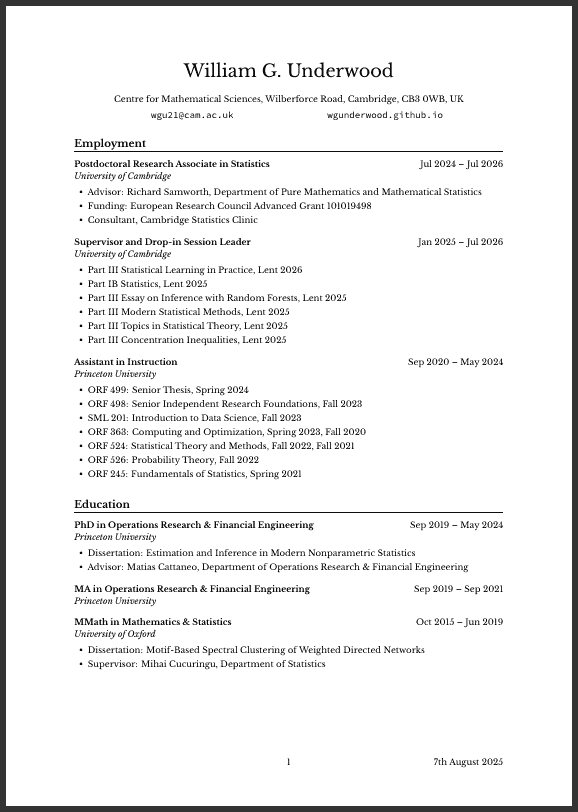
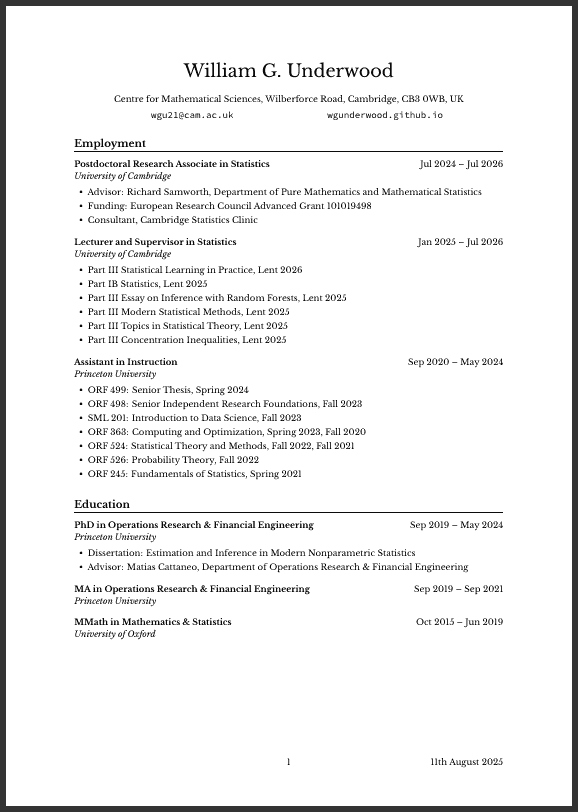
Add working paper

Changed region(s): [[0.1557, 0.8005, 0.5606, 0.8313], [0.1246, 0.2771, 0.436, 0.3079]]

diff --git a/WGUnderwood.tex b/WGUnderwood.tex
@@ -30,7 +30,7 @@
   \item Consultant, Cambridge Statistics Clinic
 \end{itemize}
 
-\subsection{Supervisor and Drop-in Session Leader}
+\subsection{Lecturer and Supervisor in Statistics}
 {Jan 2025 -- Jul 2026}
 \subsubsection{University of Cambridge}
 
@@ -100,7 +100,6 @@
 \end{itemize}
 
 \vspace*{3mm}
-
 \section{Education}
 
 \subsection{PhD in Operations Research \& Financial Engineering}
@@ -121,14 +120,6 @@
 \subsection{MMath in Mathematics \& Statistics}
 {Oct 2015 -- Jun 2019}
 \subsubsection{University of Oxford}
-
-\begin{itemize}
-  \item Dissertation:
-    Motif-Based Spectral Clustering of Weighted Directed Networks
-  \item Supervisor:
-    Mihai Cucuringu,
-    Department of Statistics
-\end{itemize}
 
 \pagebreak
 
@@ -182,13 +173,13 @@
 
 \end{itemize}
 
-%\subsection{Works in progress}{}
-%\begin{itemize}
+\subsection{Working papers}{}
+\begin{itemize}
 
-%\item Higher-order extensions to the Lindeberg method,
-%with M.\ D.\ Cattaneo and R.\ P.\ Masini.
+  \item Higher-order Lindeberg approximation,
+    with M.\ D.\ Cattaneo and R.\ P.\ Masini.
 
-%\end{itemize}
+\end{itemize}
 
 \subsection{Presentations \& conferences}{}
 \begin{itemize}
@@ -238,7 +229,8 @@
 
 \end{itemize}
 
-\vspace{0.1cm}
+\pagebreak
+
 \section{Awards \& funding}
 \vspace{-0.22cm}
 
@@ -263,8 +255,6 @@
     \hfill 2016%
 \end{itemize}
 
-\pagebreak
-
 \section{Professional experience}
 
 \subsection{Quantitative Research Intern}
@@ -275,7 +265,7 @@
 \subsection{Machine Learning Consultant}
 {Oct 2018 -- Nov 2018}
 \subsubsection{Mercury Digital Assets}
-\vspace{-0.18cm}
+\vspace{-0.20cm}
 
 \subsection{Educational Consultant}
 {Feb 2018 -- Sep 2018}
@@ -287,7 +277,7 @@
 \subsubsection{MyTutor}
 \vspace{-0.20cm}
 
-\subsection{Statistics \& Machine Learning Researcher}
+\subsection{Statistics and Machine Learning Researcher}
 {Aug 2017 -- Sep 2017}
 \subsubsection{Cardiff University}
 \vspace{-0.20cm}
